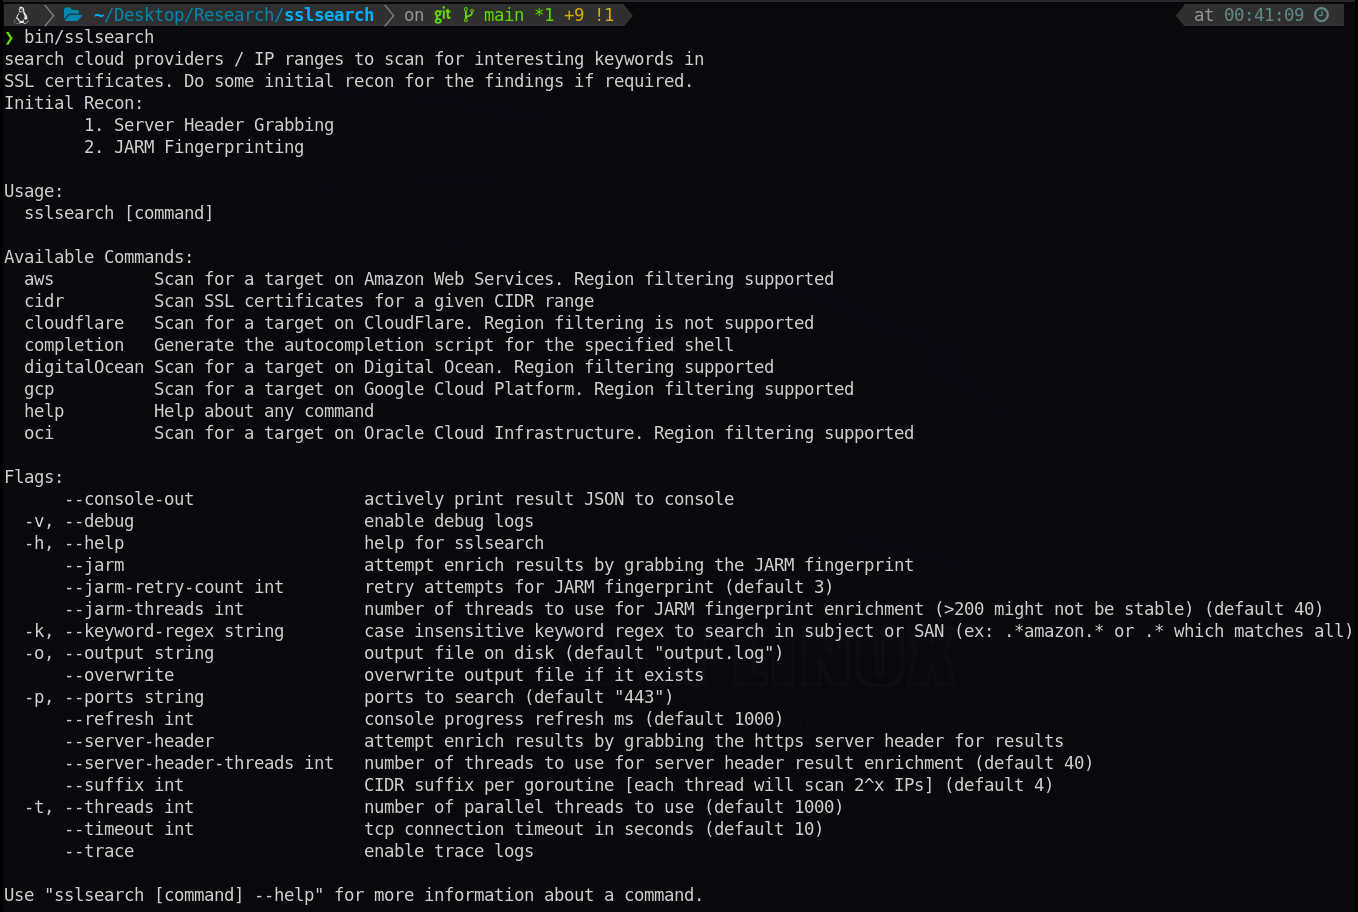
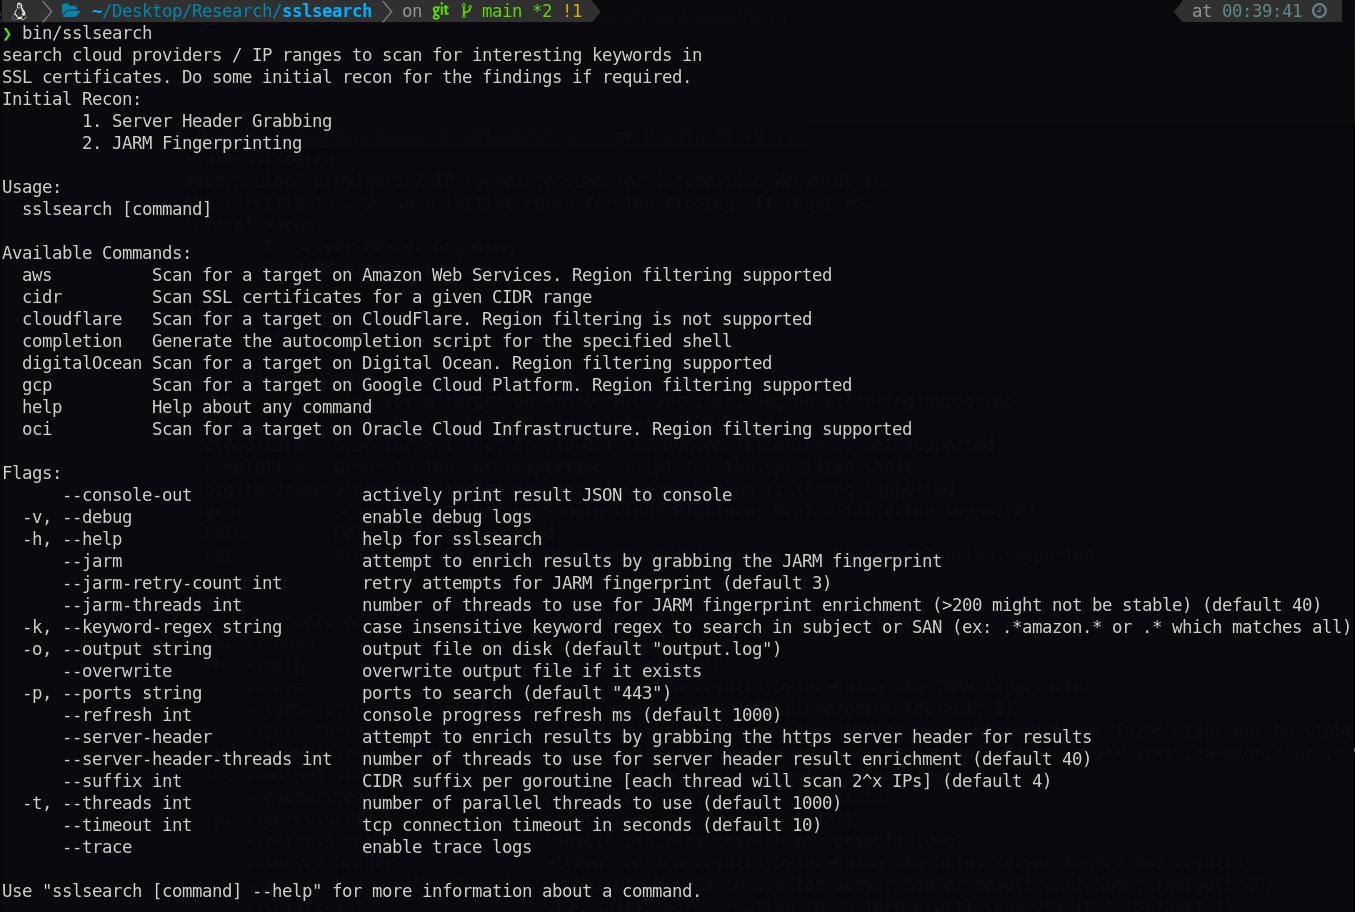
updated cli message

diff --git a/cmd/root.go b/cmd/root.go
@@ -143,11 +143,11 @@ func init() {
 
 	// Recon flags
 	// Server Header enumeration
-	rootCmd.PersistentFlags().BoolVar(&grabServerHeader, "server-header", false, "attempt enrich results by grabbing the https server header for results")
+	rootCmd.PersistentFlags().BoolVar(&grabServerHeader, "server-header", false, "attempt to enrich results by grabbing the https server header for results")
 	rootCmd.PersistentFlags().IntVar(&serverHeaderThreadCount, "server-header-threads", 40, "number of threads to use for server header result enrichment")
 
 	// JARM fingerprinting
-	rootCmd.PersistentFlags().BoolVar(&grabJarmFingerprint, "jarm", false, "attempt enrich results by grabbing the JARM fingerprint")
+	rootCmd.PersistentFlags().BoolVar(&grabJarmFingerprint, "jarm", false, "attempt to enrich results by grabbing the JARM fingerprint")
 	rootCmd.PersistentFlags().IntVar(&jarmRetryCount, "jarm-retry-count", 3, "retry attempts for JARM fingerprint")
 	rootCmd.PersistentFlags().IntVar(&jarmFingerptintThreadCount, "jarm-threads", 40, "number of threads to use for JARM fingerprint enrichment (>200 might not be stable)")
 
